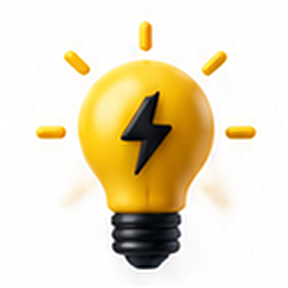
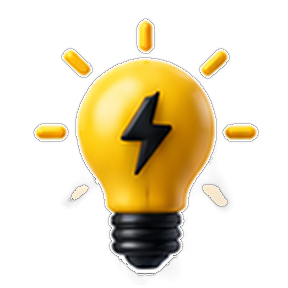
fix(customer): transparent service illustrations for dark mode
Cut the white background out of the six 3D service images (keeping
their soft shadows), so they sit directly on the card in light and dark
mode; drop the white tile used in dark mode.

diff --git a/apps/customer/lib/screens/home_screen.dart b/apps/customer/lib/screens/home_screen.dart
@@ -906,14 +906,12 @@ class _ServiceArt extends StatelessWidget {
   @override
   Widget build(BuildContext context) {
     if (!_illustrated.contains(iconKey)) return PremiumIcon(icon: categoryIcon(iconKey));
-    final image = Image.asset(
+    // Transparent artwork, so it sits on the card in light and dark mode.
+    return Image.asset(
       'assets/images/services/$iconKey.png',
       width: 66,
       height: 66,
       filterQuality: FilterQuality.medium,
     );
-    // The artwork has a white background: on dark cards give it a white tile.
-    if (!AppColors.isDark) return image;
-    return ClipRRect(borderRadius: BorderRadius.circular(16), child: ColoredBox(color: Colors.white, child: image));
   }
 }
